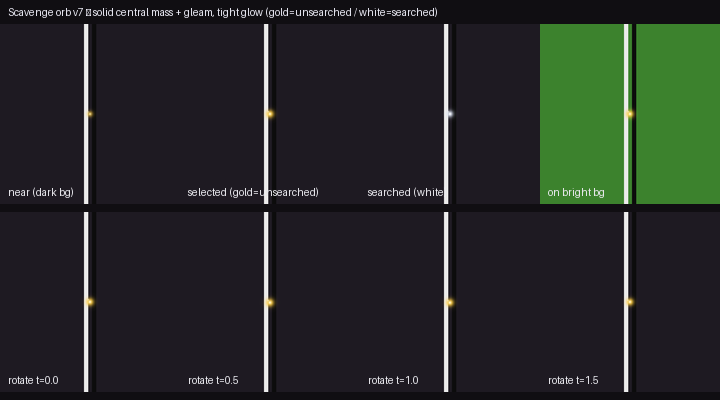
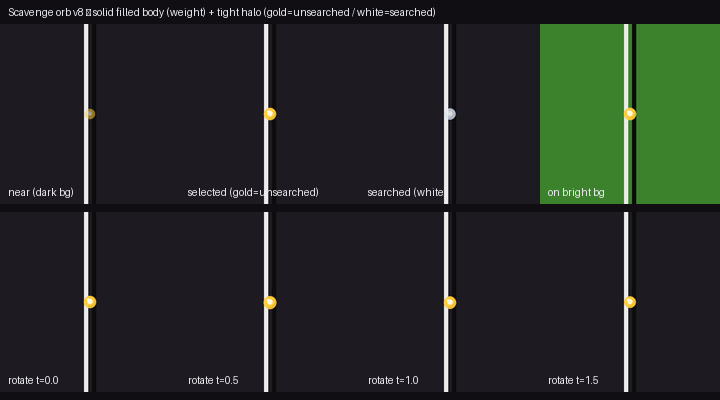
Scavenge/drop orb: solid filled body + tighter halo
Add real weight: draw_orb now draws an opaque filled body disc (draw_circle)
with a raised lit hemisphere and white-hot core under the glow, instead of
relying on soft cookie layers that never formed a solid centre. Pull the halo
in tight (r*1.15 @0.12). Shrink the cast PointLight2D on both interactable.gd
and world_drop.gd (texture_scale 0.06-0.10 -> 0.035-0.06 on the 256px cookie)
so the glow hugs the orb instead of throwing a ~13px halo bigger than it.

Regenerate the PIL preview and update the CLAUDE.md status note.

Claude-Session: https://claude.ai/code/session_018G5NCP3m9WbvqqpohXSrqQ

diff --git a/CLAUDE.md b/CLAUDE.md
@@ -713,17 +713,19 @@ means no rendering — UI layout and art still need an in-editor look.
 - Scavenge nodes = a glowing TRANSLUCENT orb (`interactable.gd`, replaced the old flat
   yellow/white `draw_circle`; iterated: v1 literal "mini sun" w/ flares+sunspots → too figurative;
   v2 concentric-disc shading → too big, giant halo, "Among Us visor"; v3 opaque baked sphere →
-  read as a solid marble/bead; v4/v6 = translucent glowing orb, too airy/gassy; **v7 = the
-  keeper**): a small LUMINOUS orb built from soft radial layers of the round cookie
-  (`FL.light_texture()`, bright centre → transparent edge), tuned to a **No Man's Sky galaxy-map
-  star** (owner's reference) — an ORB with real central MASS + a gleam, NOT a gas cloud. The trick
-  is CONTRAST: a SINGLE tight, dim halo (r×1.45 @0.15 — no wide airy bloom) over a DENSE stack of
-  near-opaque colour-body layers (r×1.0 @0.70, r×0.78 @0.90, r×0.58 @1.0) that sum to a solid
-  glowing ball, a white-hot HEART (r×0.40 @1.0) + core (r×0.22 @1.0), and a CRISP little specular
-  GLEAM offset up-left (r×0.20 @0.90, like a lit sphere). Edges stay slightly translucent (still
-  reads as light) but the centre is unmistakably solid. A small bob gives weight; the gleam
-  drifts subtly for shine. A MODEST real PointLight2D (`energy ~0.6×lvl`, `texture_scale
-  ~0.06–0.10`) gives presence without flooding the room. **GOLDEN** while it holds an untaken item you HAVEN'T searched; once **SEARCHED-but-not-
+  read as a solid marble/bead; v4/v6/v7 = translucent/cookie-only, too airy/gassy with an
+  oversized halo; **v8 = the keeper**): a small orb with real WEIGHT + a gleam, NOT a gas cloud.
+  The all-cookie versions never made a solid centre (the round cookie `FL.light_texture()` is
+  inherently soft), so v8 draws an actually OPAQUE filled body with `draw_circle`: a SMALL tight
+  halo (r×1.15 @0.12 — hugs the orb, no wide bloom) + a soft colour feather (r×0.92 @0.55), then
+  a SOLID body disc (r×0.72 @0.92 — the weight), a slightly-raised brighter disc (r×0.52 @1.0,
+  nudged up for a lit-sphere read), a white-hot core (r×0.30 @1.0) + soft luminous core, and a
+  CRISP specular GLEAM offset up-left (r×0.14, like light on a ball). Only the edges stay
+  translucent (still reads as light); the middle is solid. A small bob gives weight; the gleam
+  drifts subtly. The **cast PointLight2D is TIGHT** (`energy ~0.5×lvl`, `texture_scale
+  0.035–0.06` on the 256px cookie → ~7-8px glow that hugs the ~8px orb; the earlier 0.06–0.10
+  threw a ~13px halo BIGGER than the orb — the owner's "halo too big"). Same tight cast on
+  `world_drop.gd`. **GOLDEN** while it holds an untaken item you HAVEN'T searched; once **SEARCHED-but-not-
   emptied** it turns **pale WHITE/colourless** (`GOLD`/`PALE` palettes = a `body` tint +
   `spec`/`glow`/`light` accents; the light colour swaps too) — drained but still glowing + distinct.
   Radius small (`lerpf(5.5, 8.5, lvl)`); size/brightness/light scale with proximity (faint at the
